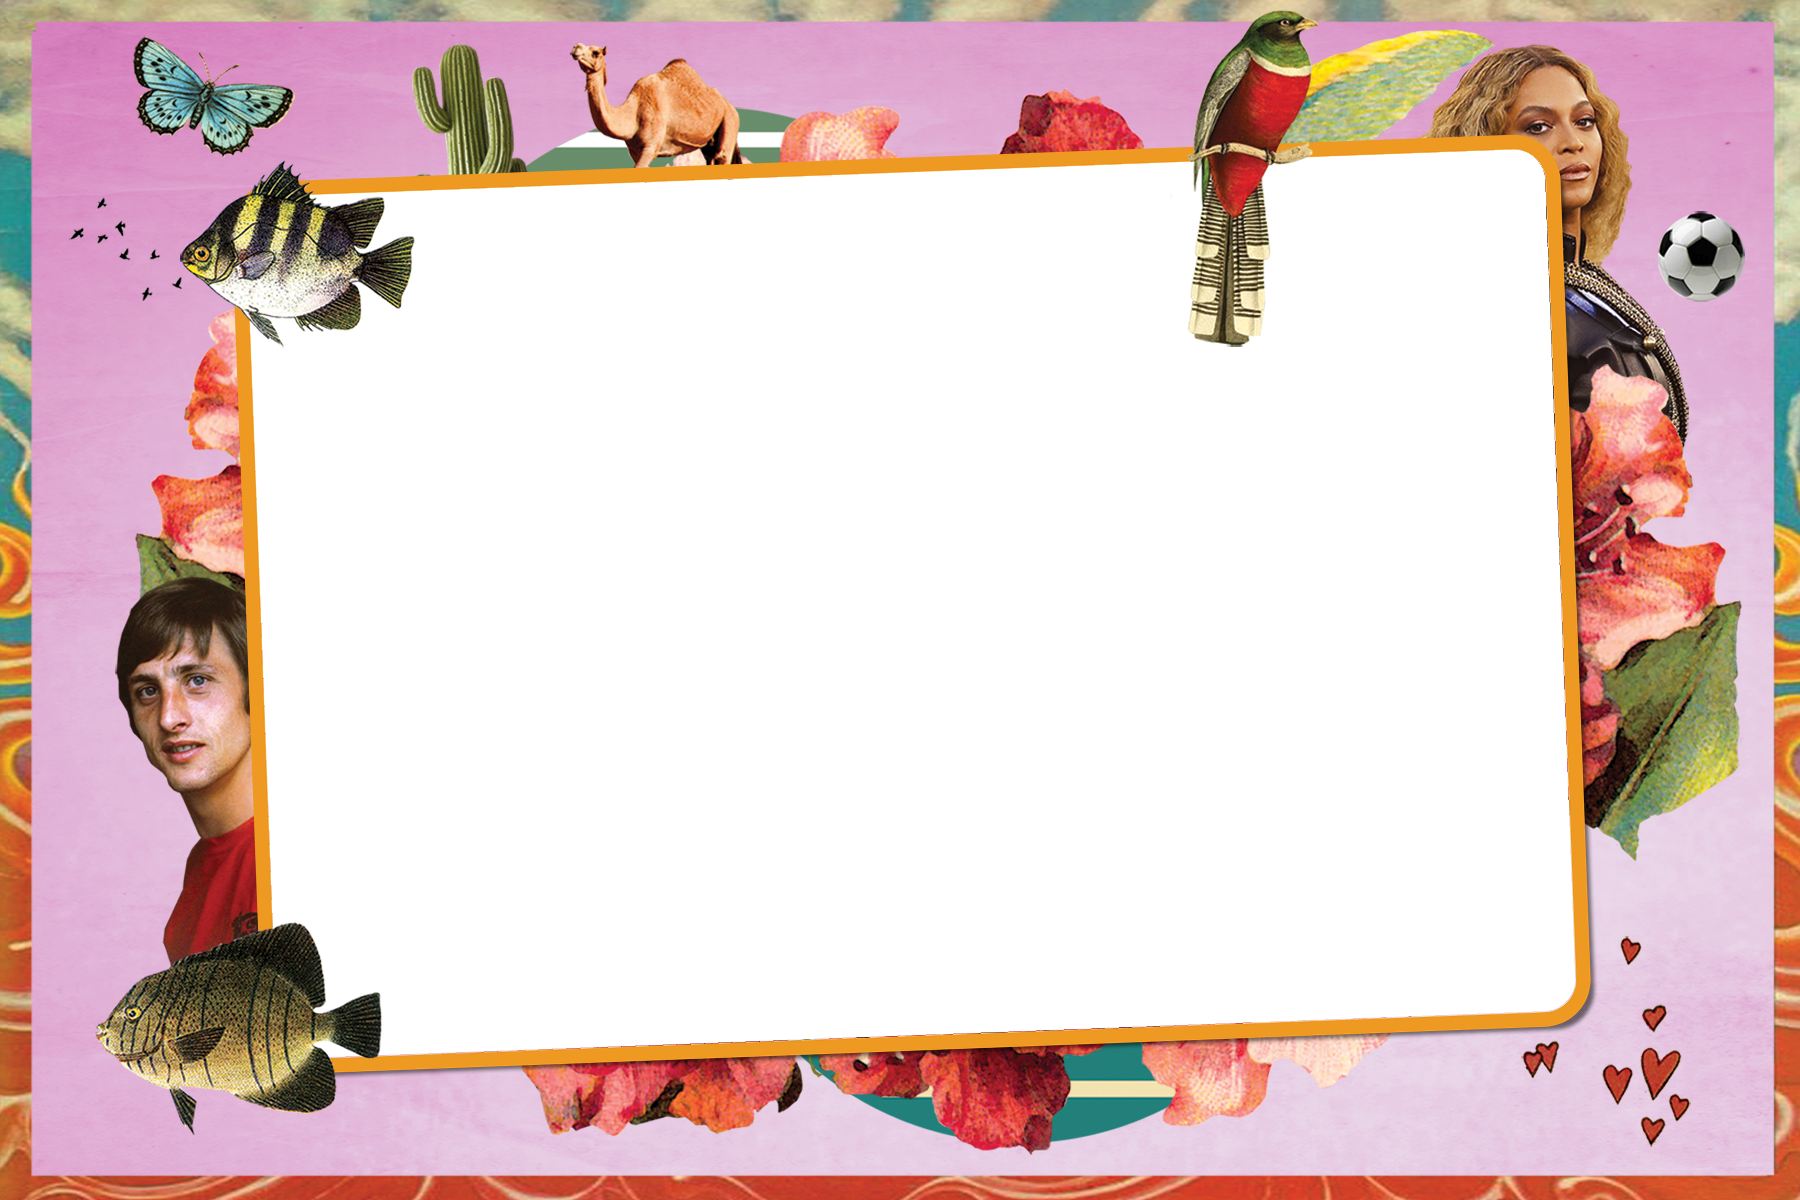
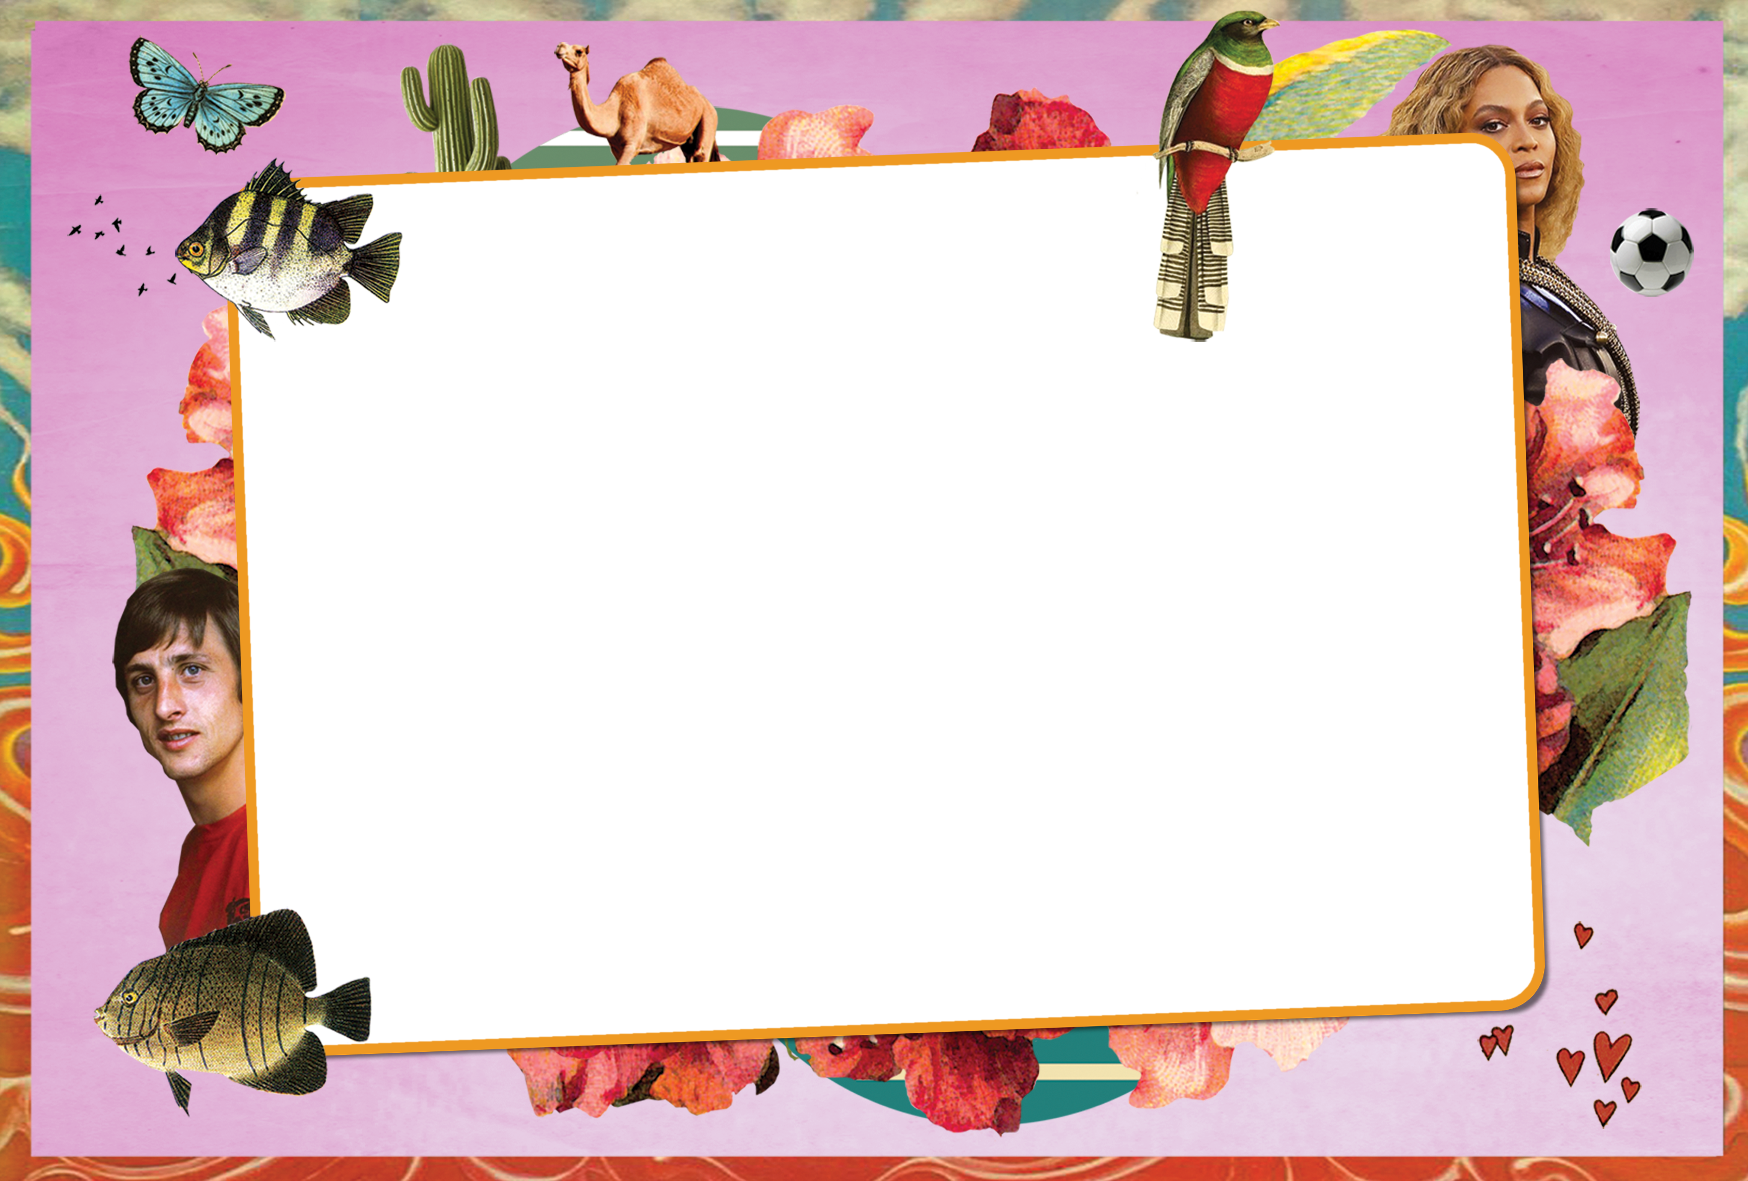
update

diff --git a/ansible/files/photobooth/app/config.py b/ansible/files/photobooth/app/config.py
@@ -9,4 +9,4 @@ montagedir = "/mnt/photobooth"
 
 def render(source, dest):
   cadres = ['cadre.png', 'cadre1.png', 'cadre2.png', 'cadre3.png']
-  subprocess.check_call(['convert',source,'-resize','1350x900','-gravity','center','-rotate','-2.4','-extent','1800x1200',os.path.join(os.path.dirname(os.path.realpath(__file__)),random.choice(cadres)),'-composite',dest])
+  subprocess.check_call(['convert',source,'-resize','1300x867','-gravity','center','-rotate','-2.3','-extent','1748x1181ı',os.path.join(os.path.dirname(os.path.realpath(__file__)),random.choice(cadres)),'-composite', '-extent', '111%' ,dest])
